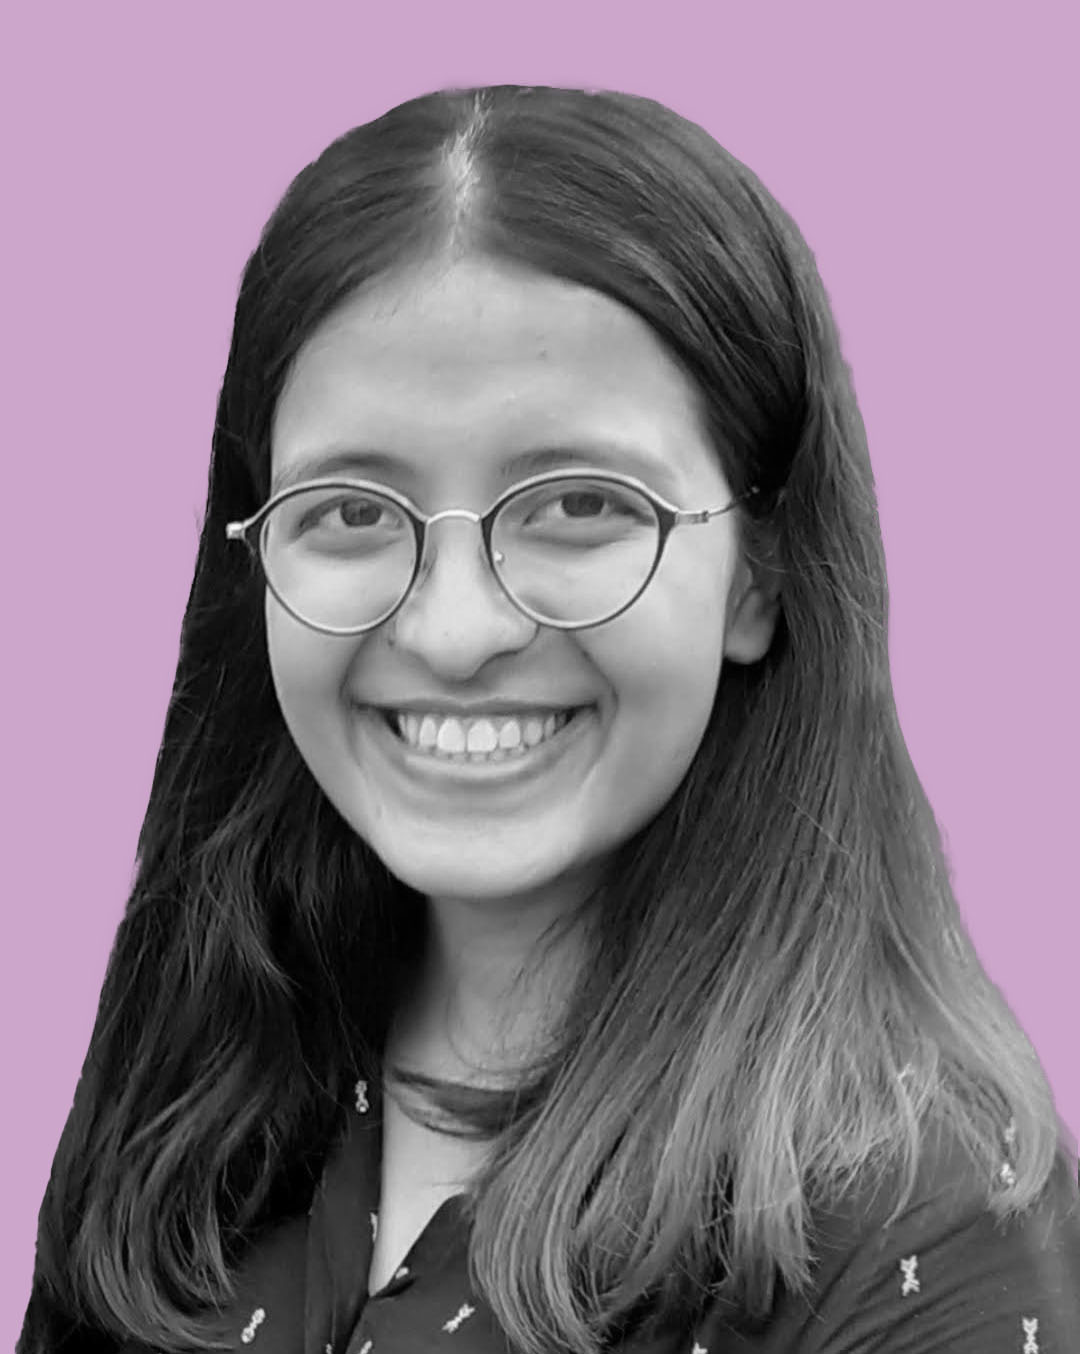
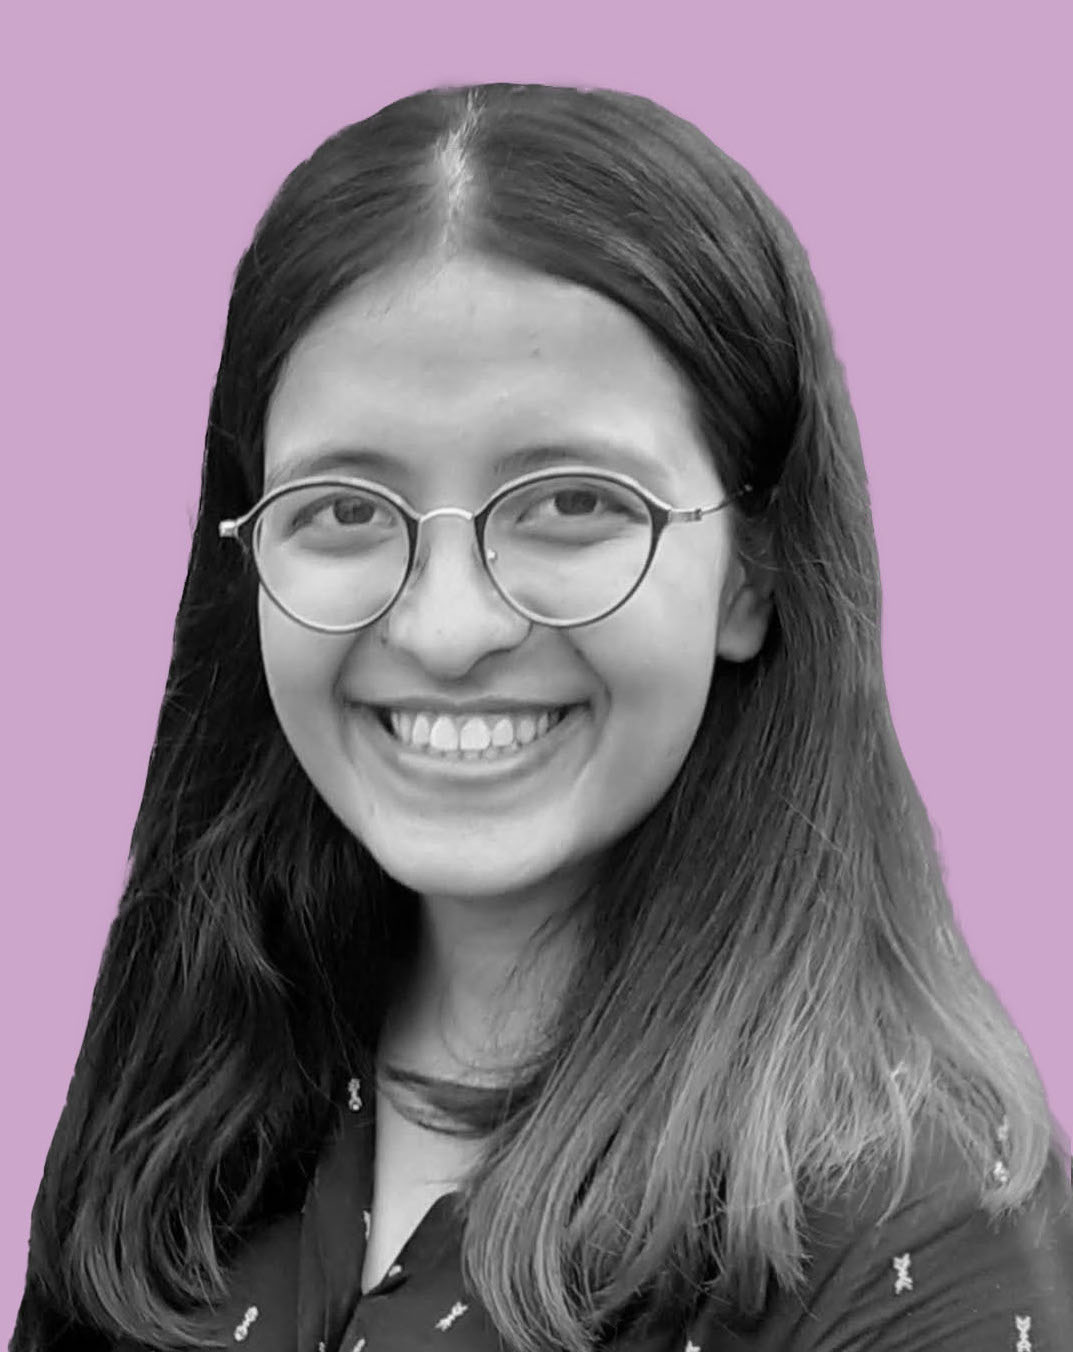
nav and intro

diff --git a/homepage.html b/homepage.html
@@ -3,32 +3,68 @@
 	<head>
 		<title>Shivangi Guleria</title>
 		<link rel="stylesheet" type="text/css" href="style.css">
+		<link rel="stylesheet" href="https://use.fontawesome.com/releases/v5.2.0/css/all.css" integrity="sha384-hWVjflwFxL6sNzntih27bfxkr27PmbbK/iSvJ+a4+0owXq79v+lsFkW54bOGbiDQ" crossorigin="anonymous">
 	</head>
 
 
 	<body>
 
-		<header>
-			<ul>
-				<li> Home </li>
-				<li> About </li>
-				<li> Skills </li>
-				<li> Experience </li>
-				<li> Education </li>
-				<li> Portfolio</li>
-				<li> Contact </li>
-			</ul>
-			
-			<h2>Hey, This is </h2>
-			<h1>Shivangi Guleria</h1>
-			<img src="img/sg_pink.jpg" height="10%" width="10%">
+		<header >
+			<nav>
+				<ul class = "horizontal-list text-center opaque">
+					<li> <a href = "#"> Home </a> </li>
+					<li> <a href = "#About"> About </a> </li>
+					<li> <a href = "#Skills"> Skills </a> </li>
+					<li> <a href = "#Experience"> Experience </a> </li>
+					<li> <a href = "#Education"> Education </a> </li>
+					<li> <a href = "#Portfolio"> Portfolio </a> </li>
+					<li> <a href = "#Contact"> Contact </a> </li>
+				</ul>
+			</nav>
+			<div id = "social-container" class = "text-center">
+				<div id = "name-intro">
+					<!-- <h2>Hey, This is </h2> -->
+					<h1>Shivangi Guleria</h1>
+				</div>
+				<div id = "socials">
+					<ul class="horizontal-list social-icons">
+						<li> 
+							<a href="mailto:shivangiguleria@gmail.com"> 
+								<i class="fas fa-envelope"></i> 
+							</a> 
+						</li>
+						<li> 
+							<a href="https://www.linkedin.com/in/shivangiguleria" target="_blank"> 
+								<i class="fab fa-linkedin"></i> 
+							</a> 
+						</li>
+						<li> 
+							<a href="https://www.instagram.com/shivangiguleria" target="_blank">
+								<i class="fab fa-instagram"></i>		
+							</a> 
+						</li>
+						<li> 
+							<a href="https://www.github.com/shivangi-guleria" target="_blank">
+								<i class="fab fa-github"></i>
+							</a> 
+						</li>
+						<li> 
+							<a href="https://www.leetcode.com/shivangiguleria" target="_blank">
+								<i class="cib-leetcode">LC</i>
+							</a> 
+						</li>	
+					</ul>
+				</div>	
+
+			</div>	
 		</header>
 
-		<main id="main">
+		<main id="main" class = "text-center">
 
-			
-
-			<article>
+			<section id = "About">
+				<div id="my-img">
+					<img src="img/sg_pink_sq.jpg" >
+				</div>
 				<h3>Who am I </h3>
 				<p>Lorem ipsum dolor sit amet, consectetur adipisicing elit, sed do eiusmod
 				tempor incididunt ut labore et dolore magna aliqua. Ut enim ad minim veniam,
@@ -36,19 +72,19 @@
 				consequat. Duis aute irure dolor in reprehenderit in voluptate velit esse
 				cillum dolore eu fugiat nulla pariatur. Excepteur sint occaecat cupidatat non
 				proident, sunt in culpa qui officia deserunt mollit anim id est laborum.</p>
-			</article>
+			</section>
 			
-			<article>
-				<h3>What do I do </h3>
+			<sectionid id = "Skills">
+				<h3>Skills </h3>
 				<p>Lorem ipsum dolor sit amet, consectetur adipisicing elit, sed do eiusmod
 				tempor incididunt ut labore et dolore magna aliqua. Ut enim ad minim veniam,
 				quis nostrud exercitation ullamco laboris nisi ut aliquip ex ea commodo
 				consequat. Duis aute irure dolor in reprehenderit in voluptate velit esse
 				cillum dolore eu fugiat nulla pariatur. Excepteur sint occaecat cupidatat non
 				proident, sunt in culpa qui officia deserunt mollit anim id est laborum.</p>
-			</article>
+			</section>
 
-			<article>
+			<section id = "Experience">
 				<h3>Academic Background </h3>
 				<p>Lorem ipsum dolor sit amet, consectetur adipisicing elit, sed do eiusmod
 				tempor incididunt ut labore et dolore magna aliqua. Ut enim ad minim veniam,
@@ -56,9 +92,9 @@
 				consequat. Duis aute irure dolor in reprehenderit in voluptate velit esse
 				cillum dolore eu fugiat nulla pariatur. Excepteur sint occaecat cupidatat non
 				proident, sunt in culpa qui officia deserunt mollit anim id est laborum.</p>
-			</article>
+			</section>
 
-			<article>
+			<section id = "Education">
 				<h3>Know me more </h3>
 				<p>Lorem ipsum dolor sit amet, consectetur adipisicing elit, sed do eiusmod
 				tempor incididunt ut labore et dolore magna aliqua. Ut enim ad minim veniam,
@@ -66,10 +102,10 @@
 				consequat. Duis aute irure dolor in reprehenderit in voluptate velit esse
 				cillum dolore eu fugiat nulla pariatur. Excepteur sint occaecat cupidatat non
 				proident, sunt in culpa qui officia deserunt mollit anim id est laborum.</p>
-			</article>
+			</section>
 		</main>
 
-		<aside>
+		<!-- <aside>
 			<h3>Get in touch</h3>
 			<a href="mailto:shivangiguleria@gmail.com"> Email &nbsp; </a>
 			<a href="https://www.linkedin.com/in/shivangiguleria" target="_blank"> LinkedIn &nbsp; </a>
@@ -77,6 +113,6 @@
 			<a href="https://www.github.com/shivangi-guleria" target="_blank"> GitHub &nbsp; </a>
 			<a href="https://www.leetcode.com/shivangiguleria" target="_blank"> LeetCode &nbsp; </a>
 		</aside>
-		
+		 -->
 	</body>
 </html>

diff --git a/style.css b/style.css
@@ -1,23 +1,94 @@
 body{
-	margin: 50px;
+	margin: 0px;
+	font-family: sans-serif;
 }
 header{
-	height: 70vh;
-	opacity: 0.5;
-	background-image: url(img/workstation.jpg);
+	height: 60vh;
+	opacity: 0.8;
+	background-image: url(img/Asset.jpg);
 	background-position: center;
-	background-repeat: no-repeat;
 	background-size: cover;
 	background-attachment: fixed;
 }
 
-#main{
+
+.horizontal-list{
+    list-style: none;
+    padding-left: 0px;
+    margin: 0px;
+}
+
+
+.horizontal-list li{
+    display: inline-block;
+    margin: 0px 8px 8px 0px;
+}
+.horizontal-list li a{
+    color: white;
+    text-decoration: none;
+    transition: color 0.5s, border-bottom 4s;
+}
+
+.horizontal-list li a:hover{
+    color: gray;
+    /*border-bottom: 1px solid white;*/
+}
+
+
+.text-center{
+	text-align: center;
+}
+.opaque{
+	opacity: 1;
+}
+
+#social-container{
+    margin-top: 20vh;
+}
+
+#name-intro{
+	color: white;
+	font-size: 2rem;
+  letter-spacing: 0.1rem;
+  font-weight: 700;
+  margin-bottom: 0.5rem;
+}
+
+.social-icons li a i{
+    /*color: red;*/
+    padding: 10px;
+    font-size: 1rem;
+    border-radius: 50%;
+}
+
+
+.social-icons li a i:hover{
+    box-shadow: 0px 0px 6px 4px rgba(230, 196, 196, 0.3);
+}
+
+/*#main{
 	color: #4d274b;
 	padding: 10px;
 }
-img {
-  border-radius: 50%;
+*/
+
+#About{
+    height: auto;
+    width: 100%;
+    position: relative;
 }
-li{
-	display: inline;
+#my-img{
+    height: 12rem;
+    width: 12rem;
+    margin: auto;
+    margin-top: -10vh;
+}
+
+#my-img img{
+    height: 100%;
+    width: 100%;
+    border-radius: 45%;
+    border: 5px solid #FFF;
+    box-shadow: 1px 1px 10px 1px #3faddf inset, 2px 2px 10px 3px #AAAAAA;
+
 }
